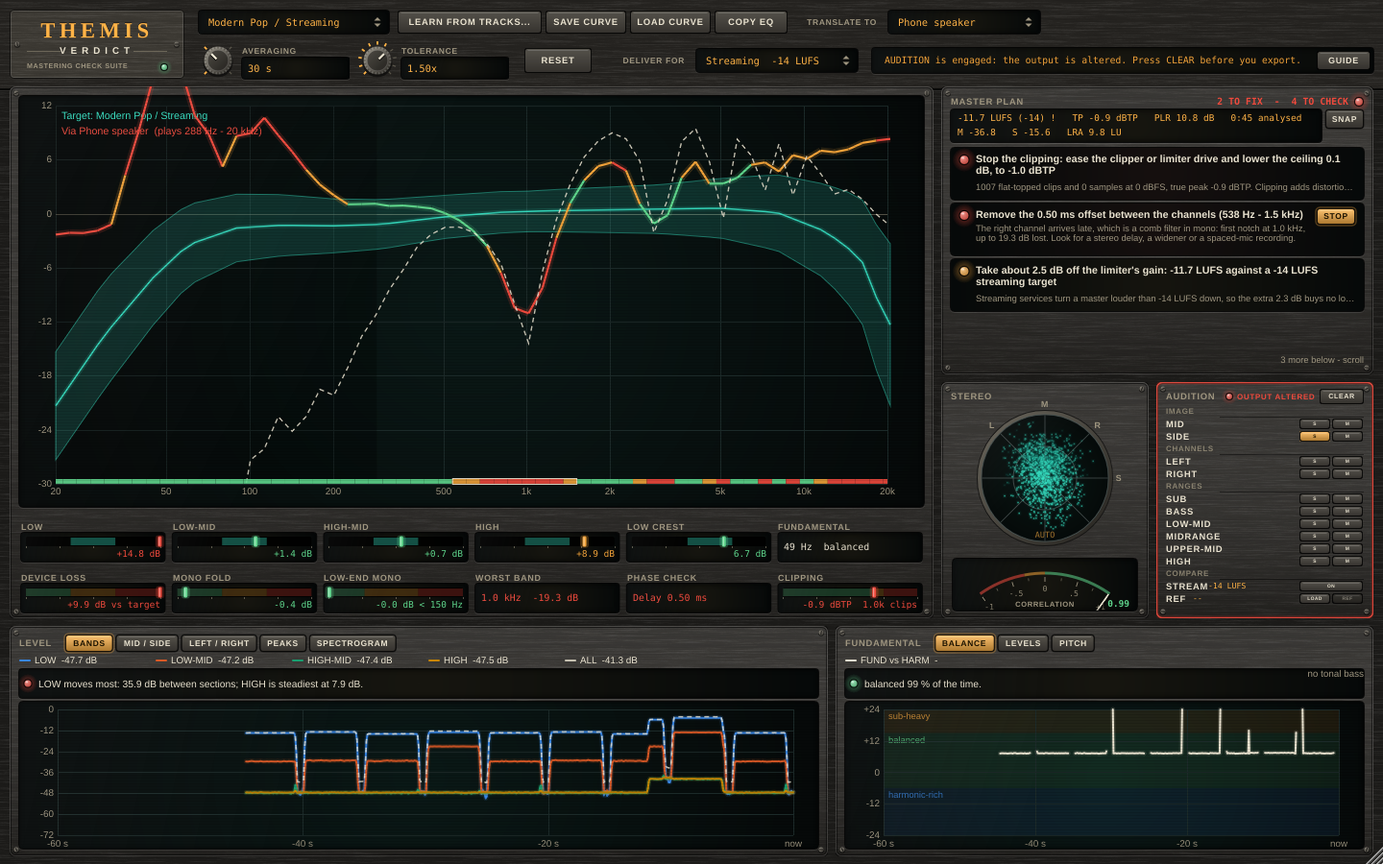
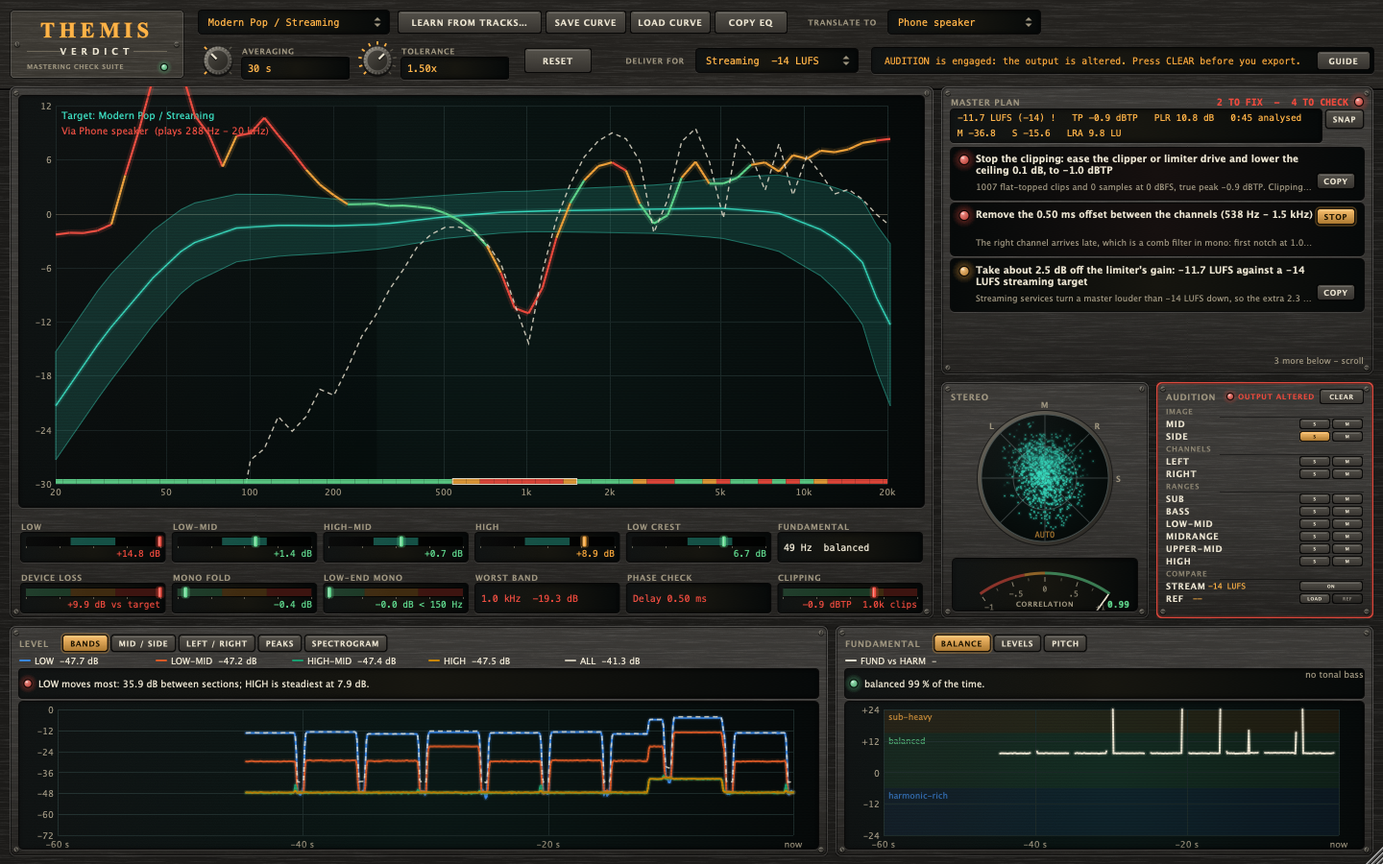
Themis and BandLink: hand a ceiling and a gain change to a limiter
The plan's ceiling and loudness items get a COPY chip for Aegis: a new
`limiter` line in pdsp::link (decodeLimiter reads it; decode skips it, so Iris
and Hephaestus are unchanged), carried by Advice::limiter (LimiterMove).
Tests for the plan items and the round trip; screenshots regenerated.

diff --git a/shared/dsp/include/pantheon/dsp/BandLink.h b/shared/dsp/include/pantheon/dsp/BandLink.h
@@ -20,10 +20,15 @@ namespace pdsp
 //   bell freq=270 gain=-2.0 q=0.70 place=mid
 //   fill lo=40 hi=90
 //   curve f0=20 oct=6 name=Modern_Pop db=-1.2,0.0,0.8,...
+//   limiter ceiling=-1.0 gainchange=-3.0
 //
 // A curve line carries a spectrum shape (not a band): the dB of each point of a log-frequency grid (f0 is the first point's
 // frequency, oct the points per octave, name has its spaces written as underscores), relative to the level around the middle of
 // the spectrum. A reader that does not know curves skips the line like any other kind it does not know.
+//
+// A limiter line is a setting for a limiter, not a band: the ceiling to set (an absolute level in dBTP) and how far to move the
+// limiter's input gain (a change in dB, negative to turn it down), either of them alone. `decode` skips it like any other kind it does
+// not know; `decodeLimiter` reads it.
 //
 // Unknown keys are ignored and a band with an unknown kind is skipped, so a newer writer does not break an older reader.
 struct LinkBand
@@ -60,6 +65,15 @@ struct LinkCurve
         const double t = pos - static_cast<double> (i);
         return db[i] + t * (db[i + 1] - db[i]);
     }
+};
+
+// What a limiter is asked to change: the ceiling (absolute, dBTP) and/or its gain (relative, dB).
+struct LinkLimiter
+{
+    bool hasCeiling = false, hasGainChange = false;
+    double ceilingDb = -1.0, gainChangeDb = 0.0;
+
+    bool valid() const { return hasCeiling || hasGainChange; }
 };
 
 namespace link
@@ -113,7 +127,24 @@ inline std::string encodeCurve (const LinkCurve& c)
     return out;
 }
 
-inline std::string encode (const std::vector<LinkBand>& bands, const LinkCurve* curve = nullptr)
+inline std::string encodeLimiter (const LinkLimiter& l)
+{
+    std::string out;
+    char buf[64];
+    if (l.hasCeiling)
+    {
+        std::snprintf (buf, sizeof (buf), " ceiling=%.1f", l.ceilingDb);
+        out += buf;
+    }
+    if (l.hasGainChange)
+    {
+        std::snprintf (buf, sizeof (buf), " gainchange=%.1f", l.gainChangeDb);
+        out += buf;
+    }
+    return out.empty() ? out : "\nlimiter" + out;
+}
+
+inline std::string encode (const std::vector<LinkBand>& bands, const LinkCurve* curve = nullptr, const LinkLimiter* limiter = nullptr)
 {
     std::string out = kHeader;
     char line[160];
@@ -129,6 +160,8 @@ inline std::string encode (const std::vector<LinkBand>& bands, const LinkCurve* 
     }
     if (curve != nullptr && curve->valid())
         out += encodeCurve (*curve);
+    if (limiter != nullptr)
+        out += encodeLimiter (*limiter);
     return out;
 }
 
@@ -253,6 +286,60 @@ inline bool decode (const std::string& text, std::vector<LinkBand>& out, LinkCur
             out.push_back (b);
     }
     return header;
+}
+
+// False when the text is not a Pantheon list or holds no limiter line. A limiter line with a number that is not finite, or a ceiling above 0 dBTP,
+// is read without that number; the last limiter line wins.
+inline bool decodeLimiter (const std::string& text, LinkLimiter& out)
+{
+    out = {};
+    std::istringstream in (text);
+    std::string line;
+    bool header = false;
+    while (std::getline (in, line))
+    {
+        while (!line.empty() && (line.back() == '\r' || line.back() == ' '))
+            line.pop_back();
+        if (!header)
+        {
+            if (line.empty())
+                continue;
+            if (line != kHeader)
+                return false;
+            header = true;
+            continue;
+        }
+        std::istringstream words (line);
+        std::string kind;
+        if (!(words >> kind) || kind != "limiter")
+            continue;
+        LinkLimiter l;
+        std::string pair;
+        while (words >> pair)
+        {
+            const auto eq = pair.find ('=');
+            if (eq == std::string::npos)
+                continue;
+            const auto key = pair.substr (0, eq), value = pair.substr (eq + 1);
+            char* end = nullptr;
+            const double v = std::strtod (value.c_str(), &end);
+            if (end == value.c_str() || !std::isfinite (v))
+                continue;
+            if (key == "ceiling" && v <= 0.0 && v >= -60.0)
+            {
+                l.hasCeiling = true;
+                l.ceilingDb = v;
+            }
+            else if (key == "gainchange" && std::fabs (v) <= 60.0)
+            {
+                l.hasGainChange = true;
+                l.gainChangeDb = v;
+            }
+        }
+        if (l.valid())
+            out = l;
+    }
+    return out.valid();
 }
 } // namespace link
 } // namespace pdsp

diff --git a/plugins/themis/plugin/Source/AdvicePanel.h b/plugins/themis/plugin/Source/AdvicePanel.h
@@ -147,10 +147,10 @@ public:
         const int row = rowAt (e.position.toInt());
         if (row >= 0 && overCopy (e.position.toInt()))
         {
-            const auto& moves = advice.items[static_cast<size_t> (row)].moves;
-            juce::SystemClipboard::copyTextToClipboard (ui::linkText (moves));
+            const auto& item = advice.items[static_cast<size_t> (row)];
+            juce::SystemClipboard::copyTextToClipboard (ui::linkText (item.moves, nullptr, item.limiter));
             if (onCopied)
-                onCopied ("Copied: paste it in " + ui::linkDestination (moves) + " (PASTE on its band panel).");
+                onCopied ("Copied: paste it in " + ui::linkDestination (item.moves, item.limiter) + " (PASTE on its " + (item.moves.empty() ? "panel)." : "band panel)."));
             return;
         }
         if (row < 0 || !advice.items[static_cast<size_t> (row)].hear.active())
@@ -188,8 +188,8 @@ public:
                    "only the HEAR chips and the AUDITION buttons change what you hear.";
         const auto& item = advice.items[static_cast<size_t> (hoverRow)];
         if (hoverCopy)
-            return "Copy the band(s) that make this change, to paste in " + ui::linkDestination (item.moves)
-                   + ". The amounts come from the measurement; judge the result by ear (SNAP first, to compare before and after).";
+            return juce::String (item.moves.empty() ? "Copy the limiter setting that makes this change" : "Copy the band(s) that make this change") + ", to paste in "
+                   + ui::linkDestination (item.moves, item.limiter) + ". The amounts come from the measurement; judge the result by ear (SNAP first, to compare before and after).";
         juce::String text = juce::String (item.headline) + "\n\n" + juce::String (item.why);
         if (item.hear.active())
             text += "\n\nClick to hear it: solo " + juce::String (themis::soloText (item.hear)) + ". Click again to release.";
@@ -215,7 +215,7 @@ private:
     bool overCopy (juce::Point<int> p) const
     {
         for (int r = 0; r < visibleRows(); ++r)
-            if (firstRow + r < static_cast<int> (advice.items.size()) && !advice.items[static_cast<size_t> (firstRow + r)].moves.empty()
+            if (firstRow + r < static_cast<int> (advice.items.size()) && advice.items[static_cast<size_t> (firstRow + r)].canCopy()
                 && copyChip (chipColumn (rowBounds (r))).contains (p))
                 return true;
         return false;
@@ -239,7 +239,7 @@ private:
         ui::hw::drawLamp (g, { static_cast<float> (row.getX()) + 5.0f, static_cast<float> (row.getY()) + 7.5f }, 4.5f, colour);
         row.removeFromLeft (17);
 
-        if (item.hear.active() || !item.moves.empty())
+        if (item.hear.active() || item.canCopy())
         {
             const auto column = row.removeFromRight (kChipWidth);
             row.removeFromRight (4);
@@ -252,7 +252,7 @@ private:
                 g.setFont (ui::labelFont (9.5f));
                 g.drawText (on ? "STOP" : "HEAR", hearChip (column), juce::Justification::centred);
             }
-            if (!item.moves.empty())
+            if (item.canCopy())
             {
                 ui::hw::drawPushButton (g, copyChip (column).toFloat(), false, colours::amber, false, hovered && hoverCopy);
                 g.setColour (colours::text);

diff --git a/plugins/themis/core/include/themis/MasterAdvisor.h b/plugins/themis/core/include/themis/MasterAdvisor.h
@@ -50,6 +50,9 @@ struct Advice
     std::string why;      // what was measured and what it means
     Switches hear;        // the Solo / Mute setting that lets you listen to it (nothing = no suggestion)
     EqMoves moves;        // the band(s) that make the change, where an equaliser or a harmonic generator can (empty = none)
+    LimiterMove limiter;  // the ceiling and/or gain change that makes it, where a limiter can (not active = none)
+
+    bool canCopy() const { return !moves.empty() || limiter.active(); } // COPY has something to put on the clipboard
 };
 
 struct MasterInputs
@@ -172,6 +175,9 @@ inline MasterAdvice advise (const MasterInputs& in)
                                                static_cast<double> (history::clip::kTruePeakWarnDb)),
                                        format ("True peak is %+.1f dBTP. AAC, MP3 and Ogg encodes overshoot the peaks they are fed, so a master above %.0f dBTP can clip after conversion.",
                                                static_cast<double> (in.clip.truePeakDb), static_cast<double> (history::clip::kTruePeakWarnDb))));
+        // Aegis (or any limiter that takes the text) can set the ceiling it names; an item about flat tops alone has no ceiling to name.
+        if (overDb >= 0.05f && (in.clip.clipEvents > 0 || in.clip.overSamples > 0 || level != Level::good))
+            out.items.back().limiter = { true, false, history::clip::kTruePeakWarnDb, 0.0f };
     }
 
     // ---- DC offset: the mean of the samples, once it has been averaged for long enough to be one ----
@@ -214,6 +220,7 @@ inline MasterAdvice advise (const MasterInputs& in)
                                                                             static_cast<double> (master::kStreamingLufs), static_cast<double> (in.integratedLufs - master::kStreamingLufs))
                                                                   : format ("%.1f LU above the target.", static_cast<double> (deltaLu)))
                                                + plrText));
+                out.items.back().limiter = { false, true, 0.0f, -deltaLu };
             }
             else
             {
@@ -228,6 +235,7 @@ inline MasterAdvice advise (const MasterInputs& in)
                                            format ("Raise the level about %s dB: %.1f LUFS against a %.0f LUFS %s target", master::rounded (raise).c_str(),
                                                    static_cast<double> (in.integratedLufs), static_cast<double> (in.targetLufs), in.deliveryName.c_str()),
                                            why + plrText));
+                out.items.back().limiter = { false, true, 0.0f, raise };
             }
         }
     }

diff --git a/plugins/themis/tests/test_main.cpp b/plugins/themis/tests/test_main.cpp
@@ -2472,6 +2472,44 @@ TEST (advisor_compares_loudness_with_the_delivery_target)
     CHECK (pick (in, Topic::loudness) == nullptr);
 }
 
+TEST (advisor_hands_the_ceiling_and_the_gain_to_a_limiter)
+{
+    // Too loud: the gain to take off is the distance to the target, and no ceiling is named (the peaks are fine).
+    auto in = cleanMaster();
+    in.integratedLufs = -8.0f;
+    in.clip.truePeakDb = -1.0f;
+    auto* l = pick (in, Topic::loudness);
+    CHECK (l != nullptr && l->canCopy() && l->limiter.changesGain && !l->limiter.setsCeiling && l->moves.empty());
+    CHECK (l != nullptr && std::abs (l->limiter.gainChangeDb + 6.0f) < 1e-4f);
+
+    // Too quiet: the same amount the headline says, upwards.
+    in.integratedLufs = -19.0f;
+    in.clip.truePeakDb = -7.0f;
+    l = pick (in, Topic::loudness);
+    CHECK (l != nullptr && l->limiter.changesGain && std::abs (l->limiter.gainChangeDb - 5.0f) < 1e-4f);
+
+    // A peak over the ceiling, with or without flat tops: the ceiling is -1 dBTP, the limit the headline names, and no gain change.
+    in = cleanMaster();
+    in.clip.truePeakDb = -0.4f;
+    auto* c = pick (in, Topic::clipping);
+    CHECK (c != nullptr && c->limiter.setsCeiling && !c->limiter.changesGain && std::abs (c->limiter.ceilingDb - history::clip::kTruePeakWarnDb) < 1e-6f);
+    in.clip.clipEvents = 30;
+    in.clip.truePeakDb = 0.4f;
+    c = pick (in, Topic::clipping);
+    CHECK (c != nullptr && c->limiter.setsCeiling && std::abs (c->limiter.ceilingDb - history::clip::kTruePeakWarnDb) < 1e-6f);
+
+    // Flat tops under the ceiling: there is no ceiling to lower, so nothing to copy.
+    in.clip.truePeakDb = -1.2f;
+    c = pick (in, Topic::clipping);
+    CHECK (c != nullptr && !c->canCopy());
+
+    // Items that are neither: nothing to copy to a limiter.
+    in = cleanMaster();
+    in.lowCrestDb = 2.0f;
+    for (const auto& item : advise (in).items)
+        CHECK (item.topic == Topic::clipping || item.topic == Topic::loudness || !item.limiter.active());
+}
+
 TEST (advisor_speaks_for_each_stereo_problem)
 {
     auto in = cleanMaster();

diff --git a/plugins/themis/plugin/Source/ThemisUi.h b/plugins/themis/plugin/Source/ThemisUi.h
@@ -39,7 +39,7 @@ inline juce::String hzText (double hz) { return juce::String (themis::hzText (hz
 // Suggested bands as the text the other plugins of the repository paste (pdsp::link): equaliser bands go to the equaliser,
 // a harmonic-fill band to the harmonic generator.
 // The band list for the other plugins, with the target curve the bands were fitted to when there is one (Iris draws it as its reference).
-inline juce::String linkText (const themis::EqMoves& moves, const themis::TargetCurve* target = nullptr)
+inline juce::String linkText (const themis::EqMoves& moves, const themis::TargetCurve* target = nullptr, const themis::LimiterMove& limiter = {})
 {
     using K = themis::EqMove::Kind;
     std::vector<pdsp::LinkBand> bands;
@@ -66,12 +66,19 @@ inline juce::String linkText (const themis::EqMoves& moves, const themis::Target
         curve.name = target->name;
         curve.db.assign (target->medianDb.begin(), target->medianDb.end());
     }
-    return juce::String (pdsp::link::encode (bands, target != nullptr ? &curve : nullptr));
+    pdsp::LinkLimiter set;
+    set.hasCeiling = limiter.setsCeiling;
+    set.ceilingDb = limiter.ceilingDb;
+    set.hasGainChange = limiter.changesGain;
+    set.gainChangeDb = limiter.gainChangeDb;
+    return juce::String (pdsp::link::encode (bands, target != nullptr ? &curve : nullptr, limiter.active() ? &set : nullptr));
 }
 
 // Where a copied fix goes, for the status line.
-inline juce::String linkDestination (const themis::EqMoves& moves)
+inline juce::String linkDestination (const themis::EqMoves& moves, const themis::LimiterMove& limiter = {})
 {
+    if (moves.empty())
+        return limiter.active() ? "Aegis" : "";
     bool fill = false, eq = false;
     for (const auto& m : moves)
         (m.kind == themis::EqMove::Kind::harmonicFill ? fill : eq) = true;

diff --git a/plugins/themis/tests/plugin_smoke.cpp b/plugins/themis/tests/plugin_smoke.cpp
@@ -342,6 +342,18 @@ int main (int argc, char** argv)
             curveOk = curveOk && std::abs (curve.db[i] - static_cast<double> (target.medianDb[i])) < 0.06;
         CHECK (curveOk && std::abs (curve.frequency (10) - themis::BandGrid::centreHz (10)) < 1.0e-6, "... point for point, on the analysis grid");
         CHECK (pdsp::link::decode (ui::linkText ({ cut }, &target).toStdString(), back) && back.size() == 1, "... and a reader without curves skips it");
+        // A limiter setting (the ceiling to set, the gain to move) travels as its own line: a limiter reads it, an equaliser's reader skips it.
+        themis::LimiterMove move;
+        move.setsCeiling = true;
+        move.ceilingDb = -1.0f;
+        move.changesGain = true;
+        move.gainChangeDb = -3.2f;
+        pdsp::LinkLimiter got;
+        const auto text = ui::linkText ({}, nullptr, move).toStdString();
+        CHECK (pdsp::link::decodeLimiter (text, got) && got.hasCeiling && std::abs (got.ceilingDb + 1.0) < 0.01 && got.hasGainChange && std::abs (got.gainChangeDb + 3.2) < 0.01,
+               "a copied limiter setting reads back: the ceiling and the gain change");
+        CHECK (pdsp::link::decode (text, back) && back.empty() && ui::linkDestination ({}, move) == "Aegis", "... an equaliser's reader sees no band in it, and the destination is Aegis");
+        CHECK (! pdsp::link::decodeLimiter (ui::linkText ({ cut }).toStdString(), got), "a band list holds no limiter setting");
     }
 
     std::printf ("[1b] stereo scope: correlation follows the channel coherence, level does not matter\n");

diff --git a/plugins/themis/core/include/themis/EqMove.h b/plugins/themis/core/include/themis/EqMove.h
@@ -22,4 +22,14 @@ struct EqMove
 };
 
 using EqMoves = std::vector<EqMove>;
+
+// A change Themis suggests that a limiter can make as it stands: where its ceiling should be (an absolute level, dBTP) and/or how far its input
+// gain should move (a change in dB, negative to turn it down). Handed to Aegis the same way as the bands (pdsp::link in shared/dsp).
+struct LimiterMove
+{
+    bool setsCeiling = false, changesGain = false;
+    float ceilingDb = -1.0f, gainChangeDb = 0.0f;
+
+    bool active() const { return setsCeiling || changesGain; }
+};
 } // namespace themis

diff --git a/plugins/themis/README.md b/plugins/themis/README.md
@@ -12,7 +12,7 @@ the short name "Themis".)
 
 ![Themis Verdict](docs/screenshot.png)
 
-*Headless render of the editor (the hardware-style interface: brushed-metal modules, glass displays, lamps, knobs) measuring a synthetic programme: a four-note bass line over pink noise whose right channel is 0.5 ms late and 1 dB quieter, with a loud "chorus" driven into a hard clipper at -1 dBFS. The **MASTER PLAN** (top right) ranks what to do: stop the clipping, remove the 0.50 ms channel offset (PHASE CHECK reports it and outlines the comb-filter region, about 500 Hz–1.5 kHz, on the mono-fold strip), bring the loudness down to the streaming target, and so on down the list (scroll it: the programme's top is widened, so one item narrows HIGH, whose side signal a mono sum loses 5.2 dB of) (the wild tonal curve and the DEVICE LOSS readout are not in the plan: a difference from the reference is not a fault); its HEAR chip on the second item has put SIDE on solo in the **AUDITION** strip (red outline: the output is altered). CLIPPING is red with the clip count, the FUNDAMENTAL readout and graph follow the bass, and the LEVEL graph shows the notes and the louder chorus. The tonal curve looks wild because the demo is not music. Regenerate with the command under "Development".*
+*Headless render of the editor (the hardware-style interface: brushed-metal modules, glass displays, lamps, knobs) measuring a synthetic programme: a four-note bass line over pink noise whose right channel is 0.5 ms late and 1 dB quieter, with a loud "chorus" driven into a hard clipper at -1 dBFS. The **MASTER PLAN** (top right) ranks what to do: stop the clipping, remove the 0.50 ms channel offset (PHASE CHECK reports it and outlines the comb-filter region, about 500 Hz–1.5 kHz, on the mono-fold strip), bring the loudness down to the streaming target, and so on down the list (scroll it: the programme's top is widened, so one item narrows HIGH, whose side signal a mono sum loses 5.2 dB of) (the wild tonal curve and the DEVICE LOSS readout are not in the plan: a difference from the reference is not a fault); its HEAR chip on the second item has put SIDE on solo in the **AUDITION** strip (red outline: the output is altered). The clipping and loudness items carry COPY chips for Aegis' PASTE. CLIPPING is red with the clip count, the FUNDAMENTAL readout and graph follow the bass, and the LEVEL graph shows the notes and the louder chorus. The tonal curve looks wild because the demo is not music. Regenerate with the command under "Development".*
 
 ![Every tab of the LEVEL and FUNDAMENTAL graphs](docs/graphs.png)
 
@@ -43,7 +43,7 @@ the short name "Themis".)
 
 | Area | What it does |
 |---|---|
-| **Master plan** | **MASTER PLAN** (top right) reads the faults the monitors below find and lists what to do about them, **worst first**, with the amount and the place: *"Stop the clipping: ease the clipper or limiter drive and lower the ceiling 0.6 dB, to -1.0 dBTP"*, *"Remove the 0.50 ms offset between the channels"*, *"Take about 3 dB off the limiter's gain: -11.2 LUFS against a -14 LUFS target"*, *"Lower the limiter ceiling by 0.6 dB, to -1.0 dBTP"*, *"Make the low end mono: high-pass the side channel around 150 Hz"*, *"Open up the low end: ease the compression on the bass by about 2 dB"*. The headline says what to change and by how much, **hover for why** (the numbers behind it, and which limit was crossed); the verdict in the corner counts what is left to fix (`READY` when nothing is). It lists **objective faults only**: how the spectrum differs from the target curve, and how it would translate to a device (also measured against that curve), is a matter of genre and taste, so those stay on the tonal view and are never turned into a to-do. Checks: clipping and peak ceiling, **DC offset** (the average of the samples away from zero by -60 dBFS or more, judged once 20 s have played: the headline names the channel and how far it sits from zero, as a share of full scale), loudness against the **Deliver for** target, phase cancellation, low-end mono, mono fold, **stereo width per range** (LOW-MID, HIGH-MID and HIGH each judged by what a mono sum loses of it, the same measure and limits as the MID / SIDE graph; the headline says how far to bring that range's side signal down for the loss to reach the warning limit, *"Narrow HIGH-MID (1.0 kHz - 6.0 kHz): take about 3.0 dB off its side signal"*, with a HEAR chip for that range's side), low-end crest, left/right balance, bass (under 40 Hz, sub-heavy / thin) and the low end's steadiness between sections. Items that can be listened to have a **HEAR** chip: it sets the Solo / Mute audition (e.g. SIDE + SUB + BASS for low-end mono, SUB + BASS for the bass); click again (STOP) to release. Items an equaliser or a harmonic generator can fix have a **COPY** chip: it puts the band on the clipboard for **PASTE** in Iris (low-end mono: a side low cut at 150 Hz; a wide range: a side bell across the range, or a side high shelf for HIGH, cutting by the amount in the headline and at most 6 dB; a thin fundamental: a mid bell at the bass note, lifted by how far its median sits under the balanced zone, at most 6 dB, and no bell when the median is not under it) or Hephaestus (bass under 40 Hz or sub-heavy: a harmonic-fill band half an octave either side of the median bass note; Copy EQ below can hand one over too). **SNAP** (next to the loudness readout) keeps the plan as it is; after you change the master and play the same part again, the readout says how many items were fixed, got better, got worse or are new, and how far the loudness and the true peak moved. It needs audio: press **Reset**, play the whole track (20 s minimum, and the longer the better; set Averaging to Infinite for a whole-track measurement). Clipping is judged at once. All limits are rules of thumb, not measured data, and the plan is only as good as the audio that has played: it is a checklist for your ears and your tools, not a replacement for them. See [MasterAdvisor.h](core/include/themis/MasterAdvisor.h). |
+| **Master plan** | **MASTER PLAN** (top right) reads the faults the monitors below find and lists what to do about them, **worst first**, with the amount and the place: *"Stop the clipping: ease the clipper or limiter drive and lower the ceiling 0.6 dB, to -1.0 dBTP"*, *"Remove the 0.50 ms offset between the channels"*, *"Take about 3 dB off the limiter's gain: -11.2 LUFS against a -14 LUFS target"*, *"Lower the limiter ceiling by 0.6 dB, to -1.0 dBTP"*, *"Make the low end mono: high-pass the side channel around 150 Hz"*, *"Open up the low end: ease the compression on the bass by about 2 dB"*. The headline says what to change and by how much, **hover for why** (the numbers behind it, and which limit was crossed); the verdict in the corner counts what is left to fix (`READY` when nothing is). It lists **objective faults only**: how the spectrum differs from the target curve, and how it would translate to a device (also measured against that curve), is a matter of genre and taste, so those stay on the tonal view and are never turned into a to-do. Checks: clipping and peak ceiling, **DC offset** (the average of the samples away from zero by -60 dBFS or more, judged once 20 s have played: the headline names the channel and how far it sits from zero, as a share of full scale), loudness against the **Deliver for** target, phase cancellation, low-end mono, mono fold, **stereo width per range** (LOW-MID, HIGH-MID and HIGH each judged by what a mono sum loses of it, the same measure and limits as the MID / SIDE graph; the headline says how far to bring that range's side signal down for the loss to reach the warning limit, *"Narrow HIGH-MID (1.0 kHz - 6.0 kHz): take about 3.0 dB off its side signal"*, with a HEAR chip for that range's side), low-end crest, left/right balance, bass (under 40 Hz, sub-heavy / thin) and the low end's steadiness between sections. Items that can be listened to have a **HEAR** chip: it sets the Solo / Mute audition (e.g. SIDE + SUB + BASS for low-end mono, SUB + BASS for the bass); click again (STOP) to release. The ceiling and loudness items also have a **COPY** chip for **Aegis**, the limiter of this repository: the ceiling to set (-1 dBTP when the peak is over it) and how far to move its GAIN (the distance to the **Deliver for** target, down or up), for its **PASTE**. Items an equaliser or a harmonic generator can fix have a **COPY** chip: it puts the band on the clipboard for **PASTE** in Iris (low-end mono: a side low cut at 150 Hz; a wide range: a side bell across the range, or a side high shelf for HIGH, cutting by the amount in the headline and at most 6 dB; a thin fundamental: a mid bell at the bass note, lifted by how far its median sits under the balanced zone, at most 6 dB, and no bell when the median is not under it) or Hephaestus (bass under 40 Hz or sub-heavy: a harmonic-fill band half an octave either side of the median bass note; Copy EQ below can hand one over too). **SNAP** (next to the loudness readout) keeps the plan as it is; after you change the master and play the same part again, the readout says how many items were fixed, got better, got worse or are new, and how far the loudness and the true peak moved. It needs audio: press **Reset**, play the whole track (20 s minimum, and the longer the better; set Averaging to Infinite for a whole-track measurement). Clipping is judged at once. All limits are rules of thumb, not measured data, and the plan is only as good as the audio that has played: it is a checklist for your ears and your tools, not a replacement for them. See [MasterAdvisor.h](core/include/themis/MasterAdvisor.h). |
 | **Loudness** | Integrated loudness (ITU-R BS.1770 / EBU R128, K-weighted, gated) since the last Reset, shown under MASTER PLAN with the true peak and the **PLR** (peak-to-loudness ratio, true peak minus integrated LUFS: how much dynamic range the limiter left); the second line has the **momentary** (400 ms) and **short-term** (3 s) loudness and the **LRA** (loudness range, EBU Tech 3342: 10th to 95th percentile of the short-term values, gated 20 LU under their mean; how much the sections differ, low for a heavily limited master). **Deliver for** picks the target: *Streaming -14 LUFS* (Spotify, YouTube and Tidal turn a louder master down to about that, so the extra level buys nothing there and costs punch), *Loud release -9 LUFS* or *Dynamic -18 LUFS*. More than 2 LU away from it is a warning, more than 4 LU is bad; too quiet says whether the peak leaves room to raise it by plain gain. The targets and limits are rules of thumb. See [LoudnessMonitor.h](core/include/themis/LoudnessMonitor.h). |
 | **Audition (Solo / Mute)** | **AUDITION** (bottom right) has **S**olo and **M**ute for **MID** (the centre, what a mono sum keeps), **SIDE** (what differs between the channels, what a mono sum loses), **LEFT**, **RIGHT** (a soloed channel plays on both sides) and the six main frequency bands of music **SUB / BASS / LOW-MID / MIDRANGE / UPPER-MID / HIGH** (20–60 Hz, 60–250 Hz, 250–500 Hz, 500 Hz–2 kHz, 2–6 kHz, 6–20 kHz: the same bands Iris and Hephaestus solo, defined once in [MusicBands.h](../../shared/dsp/include/pantheon/dsp/MusicBands.h); 4th-order Linkwitz-Riley crossovers at their edges; hover a range for what lives there). Within each group a solo silences the rest, a mute silences that source; groups combine (SIDE + SUB + BASS plays the side signal below 250 Hz, the part of the low end a mono playback system throws away). A check about one of the readouts' four ranges plays every band that overlaps it (the LOW range, up to 120 Hz, plays SUB + BASS). Changes fade over 10 ms. **CLEAR** releases everything; while anything is engaged the panel is outlined red and says OUTPUT ALTERED. **The measurements always see the input**, never the audition, so the curve, the plan and the graphs do not move when you solo. With COMPARE (below) it is the only thing in Themis that changes the output: with nothing pressed the audio is untouched bit for bit, the state is **not saved** with the session or exposed to the host, and it is **ignored while the host renders offline**, so an export cannot carry it. Put Themis last in the chain (or after your limiter) to hear what you are judging. See [Audition.h](core/include/themis/Audition.h). **COMPARE** (under the ranges): **STREAM ON** plays the master turned down to the **Deliver for** target the way a normalising service would (only down: a quieter master is left alone; the readout shows the gain), so a master that was pushed louder loses that advantage and you hear what the limiting cost. **LOAD** a reference track (the first 6 minutes; the same formats as Learn from tracks) and **REF** switches between the master and the reference, played at the loudness the master is heard at (after the preview, when it is on; a quieter reference is raised only as far as its peak allows, marked `!`) and at the same place on the host's timeline (modulo its length; it runs on by itself while the host is stopped). Both fade over 10 ms, are not saved, are ignored offline, switch off when the editor closes, and CLEAR ends them. See [Listen.h](core/include/themis/Listen.h). |
 | **Tonal balance curve** | 1/6-octave long-term spectrum (20 Hz–20 kHz) vs a target *median ± tolerance* band. Segments turn green / amber / red as you leave the band. Four broadband readouts (Low / Low-Mid / High-Mid / High) show your average offset from target. A **Low Crest** meter shows the peak/RMS ratio of the 20–250 Hz band in dB: left = dynamic, right = compressed; its "typical" zone (6–10 dB) is a hand-authored guess. Averaging: 10 s / 30 s / 2 min / infinite; **Reset** restarts it. **Copy EQ** (top row) fits a low shelf, up to three bells and a high shelf to the difference from the target and puts them on the clipboard, together with the target curve itself, for **PASTE** in Iris (the bands are added, and the curve becomes its reference, drawn behind its spectrum for **MATCH EQ**); when the bass range (30–250 Hz) sits at least 3 dB under the target's lower edge across at least two thirds of an octave in a row, it adds a harmonic-fill band over that stretch for **PASTE** in Hephaestus (a boost spends headroom on notes small speakers cannot play, harmonics are what they carry); a difference from a reference is taste, so it is a starting point to judge by ear, not a fix (see [EqFit.h](core/include/themis/EqFit.h)). **The curve does not depend on loudness:** every analysed moment is normalised by its own total energy before averaging (so gain changes, and loud choruses vs quiet verses, don't move it), and near-silent moments are gated relative to the programme level rather than at a fixed dBFS. |
@@ -140,7 +140,7 @@ plugin/Source/         JUCE layer: Parameters, PluginProcessor, PluginEditor, To
                        AdvicePanel, AuditionPanel, UsageNotes (the usage notes and the GUIDE text; plain C++), ThemisUi.h (Themis' own words, number formats and verdict colours)
 ../../shared/ui/       the drawing kit of the interface, shared with the other plugins of the repository: Hardware.h (metal,
                        glass, lamps, knobs), HardwareLookAndFeel.h, MeterCell.h
-../../shared/dsp/      BandLink.h only: the text COPY and Copy EQ put on the clipboard, which Iris and Hephaestus PASTE
+../../shared/dsp/      BandLink.h only: the text COPY and Copy EQ put on the clipboard, which Iris and Hephaestus PASTE (and Aegis, for the limiter line)
 tests/                 test_main.cpp (DSP), plugin_smoke.cpp (headless JUCE)
 ```
 

diff --git a/plugins/themis/CLAUDE.md b/plugins/themis/CLAUDE.md
@@ -68,7 +68,7 @@ Two layers with a hard dependency direction: `plugin/` → `core/`, never the re
 - **Loudness ([LoudnessMonitor.h](core/include/themis/LoudnessMonitor.h)):** wraps `LoudnessMeter` (Loudness.h, BS.1770 K-weighting + gating, histogram; a second histogram of the short-term values gives the EBU Tech 3342 loudness range) for the audio thread and publishes integrated / short-term / momentary / loudest short-term LUFS, the LRA and elapsed seconds through atomics; `requestReset` is applied by the next `process()` (same pattern as `LowCrestMeter`), `resetAnalyzer()` requests it, and `hasData()` is false for the first 3 s and while a reset is pending. **Every getter (including `seconds()`) reads as cleared while a reset is pending**, not only `hasData()`: a stopped host never applies the reset, and the plan counts `seconds()`, so a stale value would show an old plan next to a cleared CLIPPING cell. `LoudnessMeter` treats a non-finite sample as silence: a NaN in the K-weighting filters would stay there for good (short-term NaN, integrated frozen); guarded by `loudness_monitor_recovers_from_non_finite_samples`. The elapsed seconds are what the plan's `measuring` state counts.
 - **Audition ([Audition.h](core/include/themis/Audition.h)):** `Switches` (solo / mute bit masks per `Source`: mid, side, left, right, then the six `kAuditionRanges`: SUB, BASS, LOW-MID, MIDRANGE, UPPER-MID, HIGH, the main bands of music from `pdsp::bands` in shared/dsp MusicBands.h, the same bands Iris and Hephaestus solo) → `resolve()` → `Audible` (solo silences the rest of its group, mute wins over solo, groups combine) → `Audition::process` on the audio thread: the shared `pdsp::BandSplitter` (LR4 crossovers at the bands' edges with all-pass compensation, ranges sum flat), then a 2×2 channel/mid-side matrix, all ramped over 10 ms. The readouts, history and verdicts keep the four `kEnergyRanges` (their limits were set on them), so a check about one of them plays every band that overlaps it (`master::soloBitsOf`, `auditionBitsOver`; the low end is SUB + BASS, `master::soloLow()`), and an audition range is never an index into `FrameStats`. The core includes `shared/dsp/include` for this (plain C++, no JUCE; the Makefile and `themis_core` add it). It returns early (buffer untouched) while `settledAtUnity && target.untouched()`. The switches travel in one `std::atomic<uint32_t>` (`pack` / `unpack`); `ThemisProcessor::processBlock` calls it *after* every meter and only when `!isNonRealtime()`. `AuditionPanel` mirrors the processor state (so `AdvicePanel`'s HEAR chips and the buttons stay in step); nothing about it goes into `getStateInformation`.
 - **Listening aids ([Listen.h](core/include/themis/Listen.h)):** `ListenStage::process` runs right after `Audition::process` with the host position (`-1` while stopped: it then runs on by itself). The message thread owns the `ReferenceClip` (decoded, resampled with `LagrangeInterpolator` and measured on the processor's `ThreadPool`); the audio thread reads it through an atomic pointer, and a replaced clip is freed only once `retiredClipSafe()` says a block has finished without it (`ThemisProcessor::updateListen`, called on the plan's refresh). The gains come from pure functions (`listen::previewGainDb`: only ever down; `listen::referenceGainDb`: matched to the master as heard, capped at the clip's sample peak) recomputed by `updateListen` from the loudness monitor. The editor's destructor switches both off, because nothing else keeps those gains current.
-- **Band hand-off ([EqMove.h](core/include/themis/EqMove.h)):** an `Advice` may carry `moves` (the band(s) that make the change; set in `advise()` from the same measurements as the headline, tested) and `tonalMoves()` in [EqFit.h](core/include/themis/EqFit.h) turns the curve-vs-target difference into bands for the tonal view's Copy EQ (not the plan: it is taste), the EQ bands first and then, when the bass range is short (`lowEndFill`), a harmonic-fill band for Hephaestus. The plugin only formats them (`ui::linkText` in ThemisUi.h → `pdsp::link` in `shared/dsp/BandLink.h`, the one format the other plugins PASTE). The width items (`Topic::width`, one per range above the low end) take their amount from `history::sideCutToMonoOkDb`, which inverts the same mono-loss limits the MID / SIDE graph's verdict uses, and hand over `master::sideCutOver` (a side bell, a shelf for the top range). `PlanSnapshot` / `compare` / `describe` (MasterAdvisor.h) are the SNAP readout.
+- **Band hand-off ([EqMove.h](core/include/themis/EqMove.h)):** an `Advice` may carry `moves` (the band(s) that make the change; set in `advise()` from the same measurements as the headline, tested) and `tonalMoves()` in [EqFit.h](core/include/themis/EqFit.h) turns the curve-vs-target difference into bands for the tonal view's Copy EQ (not the plan: it is taste), the EQ bands first and then, when the bass range is short (`lowEndFill`), a harmonic-fill band for Hephaestus. The plugin only formats them (`ui::linkText` in ThemisUi.h → `pdsp::link` in `shared/dsp/BandLink.h`, the one format the other plugins PASTE). The width items (`Topic::width`, one per range above the low end) take their amount from `history::sideCutToMonoOkDb`, which inverts the same mono-loss limits the MID / SIDE graph's verdict uses, and hand over `master::sideCutOver` (a side bell, a shelf for the top range). `PlanSnapshot` / `compare` / `describe` (MasterAdvisor.h) are the SNAP readout. An `Advice` may also carry a `limiter` (`LimiterMove`, EqMove.h: a ceiling to set and/or a gain change): the ceiling item (-1 dBTP, only when the peak is over it by 0.05 dB or more) and the loudness items (the distance to the target, negative to turn it down); `canCopy()` says COPY has something to hand over, and `ui::linkText` writes it as the `limiter` line of `pdsp::link` that Aegis' PASTE reads (`LimiterMove` is plain data, tested in `advisor_hands_the_ceiling_and_the_gain_to_a_limiter`; the round trip in `plugin_smoke.cpp`).
 - **Phase, energy and fundamental (all fed by the same analyser frames, no extra FFT):** `analyseFrame` takes the *complex* mid and side spectra, so besides the tonal curve and mono fold it averages the per-band cross-spectrum (`foldCrossRe/Im`) and publishes `PhaseBands` (`readPhase`: correlation = (M−S)/(M+S), coherence, `arg(L R*)`, and a mid+side `levelDb` that exists even for a pure-side signal). [PhaseCancellation.h](core/include/themis/PhaseCancellation.h) `analysePhase` is a pure function on that: it flags bands with the mono-fold strip's own limits (`translation::kBandMonoWarnDb/BadDb`), takes the widest run of ≥ 2 bands, requires that run to be coherent (`kMinRunCoherence`; otherwise the cause is `other`), and fits `phase = -2πfτ` / `π - 2πfτ` to the coherent bands < 4 kHz to call polarity flip vs delay (notch = 1/(2τ)). Every frame also pushes a `FrameStats`: absolute mean-square dBFS of five `Signal`s (stereo = mid+side, mid, side, left, right) in each `kEnergyRanges` range plus a whole-spectrum column (`kAllRanges`), from the per-band mid/side/cross-spectrum energies (L/R power = M+S ± 2 Re(M S*)), scaled by 2/fftSize; `estimateFundamental` on the mid spectrum (see [Fundamental.h](core/include/themis/Fundamental.h)); and the peaks / clips of the audio since the previous frame (below). It goes into the fixed-size atomic ring [FrameHistory.h](core/include/themis/FrameHistory.h), which the UI graphs read (`ThemisProcessor::frameHistory()`). Energy/fundamental levels are deliberately *absolute*, unlike the tonal curve; digital-silence frames push `kHistoryFloorDb` (they still carry the clip window). Adding a field to `FrameStats` means adding it to `forEachField` and `kFields` only. `kEnergyRanges` is the single definition of LOW/LOW-MID/HIGH-MID/HIGH for both the readouts and the graph. The fundamental thresholds in `fundamental::` are tuned on synthetic tones only.
 - **Spectrogram ([Spectrogram.h](core/include/themis/Spectrogram.h)):** `SpectrumHistory` is a second lock-free ring beside `FrameHistory` (same capacity and frame period, one `BandLevels` of 61 band levels per frame, pushed in `analyseFrame` next to the `FrameStats` and cleared with it on reset; silent frames push the floor). It is separate so `FrameStats`, which the plan copies twice a second, stays small. `BandGrid` lives in [BandGrid.h](core/include/themis/BandGrid.h) because both need it. `spectro::` owns the display's tilt and brightness mapping and `analyseBursts` (the verdict). In the plugin a `HistoryPanel::Tab` with `spectrogram = true` reads `ThemisProcessor::spectrumHistory()` instead of the frames and draws an image (`rebuildSpectrogram`); it has its own verdict function and no lamp, because it is a reading aid and not a judgement.
 - **Clipping ([ClipMeter.h](core/include/themis/ClipMeter.h)):** owned by `TonalAnalyzer`, run by `push()` on the audio thread (a 4× `TruePeakDetector` per channel, no allocation). It skips non-finite samples (an inf would otherwise pin the peaks at +inf until the next Reset; `clip_meter_ignores_non_finite_samples`). It reports sample peak, true peak, `over` samples (≥ 0 dBFS) and `clip` events = flat tops (≥ `kMinRun` equal samples ≥ −6 dBFS reached with a step ≥ `kEntryStep`; the entry step is what keeps a 16-bit-quantised loud bass sine from counting, see `clip_meter_does_not_mistake_a_quantised_bass_sine_for_clipping`). Cross-thread: window accumulators are atomics drained by `take()` in `analyseFrame` (so each history frame carries what happened since the previous one), totals since the reset are atomics read by `ClipTotals`; `requestReset` is applied by the next `push()` (the detector state belongs to the audio thread) and `totals().have` is false while it is pending. `prepareOffline` (learning from files) switches it off. `history::clip::level` is the one verdict (any clip/over bad; true peak > −1 dBTP warn, > 0 bad), used by the CLIPPING cell and the PEAKS tab. The same loop sums every finite sample per channel; `ClipTotals::dcLeft/dcRight` are those sums over the sample count (the DC offset), judged by `history::dc::level` and turned into the plan's `Topic::dcOffset` item (appended to `Topic`, so it sorts last among items of one severity; judged only after `history::dc::kMinSeconds`, because a mean over a few cycles of a bass note is not an offset). They are left out of `ClipTotals::operator==` on purpose: they move with every block and would repaint the readouts for nothing.

diff --git a/CLAUDE.md b/CLAUDE.md
@@ -57,7 +57,7 @@ installs, so it is user-invoked) and `shared-change` (check every user of a chan
   for drawing and tests), [AnalyzerTap.h](shared/dsp/include/pantheon/dsp/AnalyzerTap.h) (the lock-free FIFOs from the audio thread to a display) and
   [SpectrumAnalyzer.h](shared/dsp/include/pantheon/dsp/SpectrumAnalyzer.h) (the calibrated FFT analyzer, GUI-free), used by Hephaestus, Iris and Apollo (its display's analyser: `ApolloUiCheck` pins that it reads what the processor's taps send); and [TruePeak.h](shared/dsp/include/pantheon/dsp/TruePeak.h) (`pdsp::TruePeakReader`: the peak between the samples, read at 8x by a 64-tap windowed sinc, plain C++, delayed by `kTruePeakDelay` samples), which Aegis limits by and Hermes meters by, so the two cannot disagree about what a true peak is; and
   [BandLink.h](shared/dsp/include/pantheon/dsp/BandLink.h) (`pdsp::link`: bands handed between plugins as clipboard text, plain C++), which
-  Themis writes (COPY, Copy EQ) and Iris and Hephaestus read (PASTE). Its format is versioned (`pantheon-bands 1`): add keys, never change
+  Themis writes (COPY, Copy EQ) and Iris and Hephaestus read (PASTE); its `limiter` line (a ceiling to set and a gain change, from Themis' plan items) is read by Aegis' PASTE (`decodeLimiter`), and `decode` skips it. Its format is versioned (`pantheon-bands 1`): add keys, never change
   what one means, and keep the readers ignoring what they do not know. It also carries one `curve` line (a spectrum shape on a log-frequency
   grid: Themis' Copy EQ writes its target, Iris reads it as its reference; a reader without curves skips the line like any unknown kind).
   And [MusicBands.h](shared/dsp/include/pantheon/dsp/MusicBands.h) (`pdsp::bands`: the six main frequency bands of music, Sub 20–60 Hz, Bass 60–250 Hz,
@@ -68,7 +68,7 @@ installs, so it is user-invoked) and `shared-change` (check every user of a chan
   whose level keeps jumping over its average; plain C++, fed from a display's timer), written to be shared and used by Atlas so far; AtlasTests [9] pins it.
 - It knows nothing about any plugin and has no GUI. The namespace is `pdsp` (not `dsp`, which would collide with `juce::dsp`).
 - **A change here changes every plugin that uses it.** Run each one's DSP tests (Hephaestus: `HephaestusTests`; Iris: `IrisTests`; Atlas: `AtlasTests`, for MusicBands.h and Biquad.h; Aegis: `AegisTests` and Hermes: `HermesTests`, for TruePeak.h; Castor: `CastorTests`, for MusicBands.h (its `BandSplitter`); Apollo, Hera and Nemesis: `ApolloTests`, `HeraTests` and `NemesisTests`, for Biquad.h; Themis: `make test`, for MusicBands.h); the
-  analyzer's calibration is pinned by Hephaestus' test [10]; BandLink by both `UiCheck`s (PASTE) and Themis' `ThemisSmoke` build. The files are
+  analyzer's calibration is pinned by Hephaestus' test [10]; BandLink by the three `UiCheck`s that paste (Iris, Hephaestus, Aegis) and Themis' `ThemisSmoke` build. The files are
   tested through the plugins that use them, not on their own.
 
 ## Licence and CI
